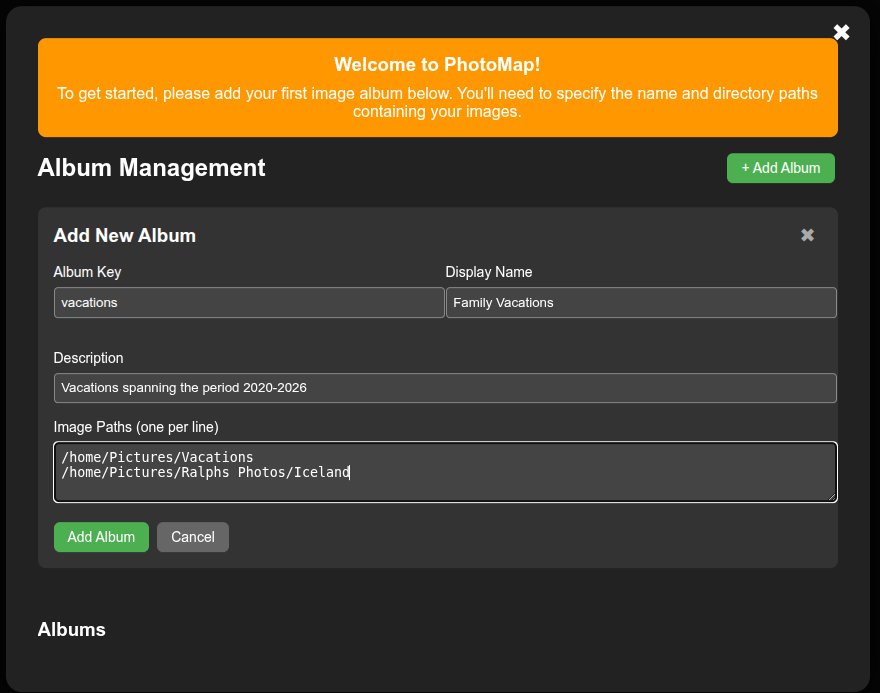
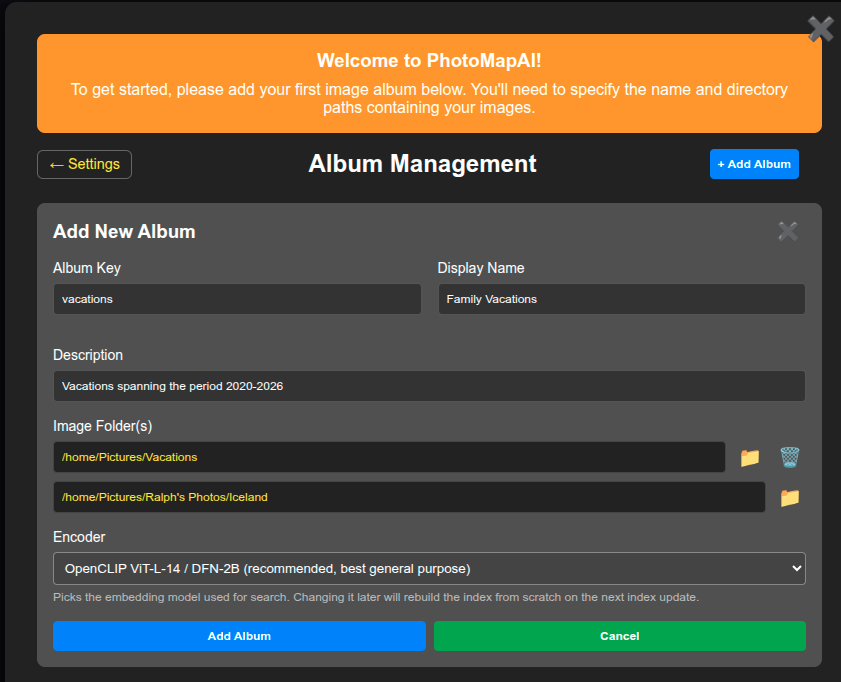
Docs: 1.06 update (#289)
* docs: update screenshots for 1.06

* docs: Update for version 1.06

Pull request: Docs: 1.06 update
Updates screenshots and description of swiper window and settings dialogue.

diff --git a/docs/user-guide/basic-usage.md b/docs/user-guide/basic-usage.md
@@ -30,25 +30,56 @@ For more information on adding and modifying albums see [Albums](albums.md).
 
 ## The Semantic Map
 
-When you open an album for the first time, it will show the [Semantic Map](semantic-map.md) view, a scatterplot of all the photos in your album, clustered and colored by similarity.
+When you open an album for the first time, it will show the [Semantic
+Map](semantic-map.md) view, a scatterplot of all the photos in your
+album, clustered and colored by similarity.
 
+<img src="../../img/photomap_semantic_map_1.png" width="480"
+alt="Semantic Map" class="img-hover-zoom">
 
+The initial view shows the entire collection, with a yellow target
+(far left side of the screenshot) marking the current photo on
+display. Use the mouse and scrollwheel to zoom in and out of the map
+and pan around. If you zoom in enough, you will see individual dots
+for each photo. The largest clusters are labeled with landmark images
+shown in the screenshot above as map markers pointing to major
+clusters. Hover the mouse over areas of interest to see larger
+thumbnail previews of the corresponding images. You can control
+whether landmarks and/or hover thumbnails are displayed by selecting
+those options in the checkboxes at the bottom of the screen.
 
-<img src="../../img/photomap_semantic_map_1.png" width="480" alt="Semantic Map" class="img-hover-zoom">
+Click on the album title ("Open Images Demo" in the screenshot) to
+switch from one album to another.
 
-The initial view shows the entire collection, with a yellow target (far left side of the screenshot) marking the current photo on display. Use the mouse and scrollwheel to zoom in and out of the map and pan around. If you zoom in enough, you will see individual dots for each photo. The largest clusters are labeled with landmark images shown in the screenshot above as map markers pointing to major clusters. Hover the mouse over areas of interest to see larger thumbnail previews of the corresponding images. You can control whether landmarks and/or hover thumbnails are displayed by selecting those options in the checkboxes at the bottom of the screen. 
+Click on a dot to load that photo into the [album browsing
+display](#the-album-browsing-display). This will also highlight the
+cluster that you clicked in and load the contents of the cluster into
+the search results. You can then use the navigation buttons or the
+[grid view](#viewing-a-thumbnail-grid) to scroll through the images in
+the selected cluster.
 
-Click on a dot to load that photo into the [album browsing display](#the-album-browsing-display). This will also highlight the cluster that you clicked in and load the contents of the cluster into the search results. You can then use the navigation buttons or the [grid view](#viewing-a-thumbnail-grid) to scroll through the images in the selected cluster.
+If you don't see anything, or if the colors are very faint, this means
+that there were insufficient images in the album to cluster well. You
+can fix this by increasing the cluster strength. Go to the *Cluster
+Strength* field and increase its value until you are satisfied with
+the cluster number and size.
 
-If you don't see anything, or if the colors are very faint, this means that there were insufficient images in the album to cluster well. You can fix this by increasing the cluster strength. Go to the *Cluster Strength* field and increase its value until you are satisfied with the cluster number and size.
-
-If you hover over the top of the map, additional navigation controls appear for zooming in and out, panning, resetting to the default scale, and downloading the map as a PNG image.
+If you hover over the top of the map, additional navigation controls
+appear for zooming in and out, panning, resetting to the default
+scale, and downloading the map as a PNG image.
 
 <img src="../../img/photomap_semantic_map_2.png" width="480" alt="Semantic Map Nav Controls" class="img-hover-zoom">
 
-You can control the size and position of the semantic map. You can have it appear in fullscreen mode that covers the full size image display beneath it, or you can set it to be a semi-transparent window that floats on top of the full size image. See [Semantic Map](./semantic-map.md) for more details.
+You can control the size and position of the semantic map. You can
+have it appear in fullscreen mode that covers the full size image
+display beneath it, or you can set it to be a semi-transparent window
+that floats on top of the full size image. See [Semantic
+Map](./semantic-map.md) for more details.
 
-You can completely close the semantic map at any time by clicking its close box or the *Target* (⊙) icon at the bottom of the screen (see the screenshot below). To reopen the map, click the *Target* icon again.
+You can completely close the semantic map at any time by clicking its
+close box or the *Target* (⊙) icon at the bottom of the screen (see
+the screenshot below). To reopen the map, click the *Target* icon
+again.
 
 <div class="photomap-overlay-container">
   <img src="../../img/photomap_basic_usage_3_base.png" style="width: 320px" class="photomap-base" alt="Base image">
@@ -60,27 +91,36 @@ You can completely close the semantic map at any time by clicking its close box 
 
 If you click on an image in the semantic map, or just close the window, you will see the album browsing display shown below. Hover over the screenshot to see the key to the various buttons and controls for album browsing:
 
-<div class="photomap-overlay-container">
-  <img src="../../img/photomap_basic_usage_1_base.png" width="480" class="photomap-base" alt="Base image">
-  <img src="../../img/photomap_basic_usage_1_overlay.png" width="480" class="photomap-overlay" alt="Overlay image">
-</div>
+<img src="../../img/photomap_basic_usage_1.png" width="480" class="photomap-base" alt="Base image">
 
 Going from left to right:
 
+- The *Previous image* and *Next image* buttons advance the images in the album or current search.
 - The *About* button shows the current version of the software and links to its  home page.
-_ The *Previous slide* and *Next slide* buttons advance the images in the album or current search.
 - The *Gear* button opens up a dialogue that lets you adjust the behavior and appearance of PhotoMapAI.
 - The *Trash* icon permanently deletes the current photo from the album and removes the disk file (after confirmation).
 - The *Fullscreen* button puts PhotoMapAI into fullscreen mode and hides most of the control elements.
 - The *Grid* icon toggles between showing one image at a time to showing a screen of thumbnails.
-- The *Play/Pause* button starts and stops a slideshow in which the photos autoadvance after a user-adjustable interval.
+- The *Back* icon keeps track of your navigation and searches and lets you page back in the history. Right-clicking or long-pressing this button brings up clickable thumbnails of the most recent 12 images.
+- The *Play/Pause Slideshow* button starts and stops a slideshow in which the photos autoadvance after a user-adjustable interval. Right or long-click the icon to choose between linear and shuffle modes.
+- The *Star* icon displays the bookmarks menu, allowing you to display only favorited (starred) images, download starred images, or delete them. It also lets you enter [curator mode](curator-mode.md) for selecting diverse images for model training.
 - The *Target* icon opens and closes the [semantic map](semantic-map.md).
 - The *Bookmark* icon opens a menu for managing [bookmarked images](bookmarks.md), including options to show, download, or delete bookmarked photos.
-- The *Landscape* icon initiates a search for images similar to the one currently displayed.
+- Clicking on the *Landscape* icon initiates a search for images similar to the one currently displayed.
 - The *Magnifier* button opens up a search dialogue that lets you search by image similarity and/or a text description of image content.
 - The "Clear search* button clears any search that is currently active and returns to album browsing mode.
 
-Finally, the yellow tab with the black arrow on the left margin of the window opens a drawer that displays the image's EXIF date, including the date the photo was taken, GPS information (if available), and camera information. Once you open the drawer up, you can drag it around by clicking on any of its edges. Click the black arrow again to return it to its home location and close it.
+Finally, the yellow tab with the black arrow on the left margin of the
+window opens the "metadata drawer", where you can see the image's EXIF
+date, including the date the photo was taken, GPS information (if
+available), and camera information. If the image was generated by the
+[InvokeAI Image Generation](https://invoke.ai) package, then the
+generation parameters are displayed, along with controls that enable
+you to reload the image into InvokeAI and remix it.
+
+Once you open the drawer up, you can drag it around by clicking on its
+title bars. Click the black arrow again to return it to its home
+location and close it.
 
 ### Jumping Forward and Back
 
@@ -114,15 +154,64 @@ The slideshow mode can also be set in the settings dialogue.
 
 The Gear icon opens the settings dialogue, which allows you to adjust the appearance and behavior of PhotoMapAI:
 
-<img src="../../img/photomap_settings.png" width="480" alt="PhotoMapAI Settings Dialogue" class="img-hover-zoom">
+<img src="../../img/photomap_settings_1.png" width="480" alt="PhotoMapAI Settings Dialogue (Top)" class="img-hover-zoom">
 
-- **Image Change Interval** -- When the slideshow is running, this controls how long each image will be displayed, in seconds.
-- **Image Browse Order** -- When the slideshow is running, or when you are browsing the album without an active search, this controls the order in which photos are displayed. "Random" will present the images in shuffled order, while "Chronological" will show them in order from oldest to newest.
-- **Grid thumbnail size factor** -- This allows you to change the size of the image thumbnails by scaling them from a maximum of 2.0 (double default size) to a minimum of 0.5 (half default size). Be aware that the grid takes longer to load with small thumbnails.
-- **Minimum search score** -- When performing a text or image search, this is the minimum allowable value of the match score (range 0.0-1.0). Text search matches are usually in the range of 0.2 to 0.3. Setting the value higher than 0.3 makes the search very strict. Lower than 0.2 will allow for weak matches. The default is 0.2.
-- **Maximum # of search results** -- When performing a text or image search, this controls the maximum number of matches to return. The default is 100.
-- **Show Button Labels** -- Disabling this checkbox allows you to turn off the labels on the row of clickable icons at the bottom of the screen for a more minimalist experience.
-- **Confirm before deleting images** -- Disabling this checkbox stops the Trash Can icon from asking for confirmation before permanently deleting the current image from disk.
-- **LocationIQ Map API Key** -- This optional API key lets PhotoMapAI display thumbnail maps and named locations for photos that contain GPS geolocation information. If you wish to enable this feature, get a key for free from [LocationIQ](http://locationiq.com/) and paste it into the field. If not present, PhotoMapAI will display the longitude and latitude of the photo, but not the map or place name.
+It has several collapsible sections:
+
+### Top portion
+
 - **Album** -- This pulldown menu lists all the albums you have configured and allows you to switch among them. Note that when you switch albums, the settings dialogue will close immediately and the window will display the first photo from the selected albums.
 - **Manage Albums** -- This green button will open the [Album Manager](albums.md), where you can create, edit and delete albums.
+
+### Slideshow Settings
+
+- **Image Change Interval** -- When the slideshow is running, this controls how long each image will be displayed, in seconds.
+- **Image Slideshow Mode** -- When the slideshow is running, or when you are browsing the album without an active search, this controls the order in which photos are displayed. "Random" will present the images in shuffled order, while "Sequential" will show them in sequential order. When viewing the whole album, images are ordered from oldest to newest. After performing a search, images will be ordered from best match to worst. When viewing a cluster, the images closest to where you clicked on the cluster are displayed first.
+- **Wrap Around During Navigation** -- If selected, the last image in the album will wrap around to the first image when you advance beyond it. Similarly for the first image in the album if you navigate to the pevious image. If not selected, you cannot advance beyond the last image, or go backwards from the first.
+
+### Appearance
+
+- **Grid thumbnail size factor** -- This allows you to change the size of the image thumbnails by scaling them from a maximum of 2.0 (double default size) to a minimum of 0.5 (half default size). Be aware that the grid takes longer to load with small thumbnails.
+- **Show Button Labels** -- Disabling this checkbox allows you to turn off the labels on the row of clickable icons at the bottom of the screen for a more minimalist experience.
+- **Confirm before deleting images** -- Disabling this checkbox stops the Trash Can icon from asking for confirmation before permanently deleting the current image from disk.
+- **When deleting** -- Choose whether deleted images are moved to the Trash/Recycle bin  or deleted immediately.
+
+
+### Autotagging
+
+This portion of the Settings window has a single checkbox for
+activating **Autotagging** a feature that tags individual images and
+whole clusters with descriptive labels. See [Autotagging](autotagging.md) for details.
+
+<img src="../../img/photomap_settings_2.png" width="480" alt="PhotoMapAI Settings Dialogue (Bottom)" class="img-hover-zoom">
+
+### API Integration
+
+These settings enable optional integration with third party services.
+
+- **LocationIQ Map API Key** -- This optional API key lets PhotoMapAI
+  display thumbnail maps and named locations for photos that contain
+  GPS geolocation information. If you wish to enable this feature, get
+  a key for free from [LocationIQ](http://locationiq.com/) and paste
+  it into the field. If not present, PhotoMapAI will display the
+  longitude and latitude of the photo, but not the map or place name.
+  
+- **InvokeAI Backend URL** -- If you use the
+  [InvokeAI](https://invoke.ai) locally-hosted AI image generation
+  software, you can use PhotoMapAI to view your InvokeAI library, and
+  send previously-generated images back to the software to remix or
+  use as reference images. To active this support, paste the URL of
+  the running InvokeAI backend into this field. You'll find more
+  information in [InvokeAI Integration](invokeai-integration.md).
+  
+- **InvokeAI Username, InvokeAI Password** -- If a valid InvokeAI
+  URL is present, these fields will appear. If you are running
+  InvokeAI in password-protected "multiuser mode," these fields
+  provide the InvokeAI username and password to log into.
+  
+- **Upload to Image Board** -- If a valid InvokeAI URL is present,
+  this pulldown menu allows you to select which InvokeAI gallery to
+  upload reference images into.
+  
+- **Reset to Defaults** -- This clears out settings, returning them to
+  their default state. It will not delete albums or images.